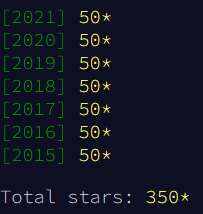
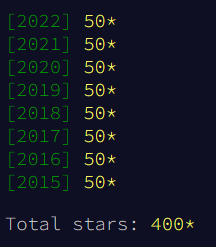
Refactoring + readmes

diff --git a/src/main/java/net/eugenpaul/adventofcode/y2022/day25/Day25.java b/src/main/java/net/eugenpaul/adventofcode/y2022/day25/Day25.java
@@ -2,119 +2,95 @@ package net.eugenpaul.adventofcode.y2022.day25;
 
 import java.util.List;
 import java.util.logging.Level;
-import java.util.stream.Collectors;
 
 import lombok.Getter;
 import net.eugenpaul.adventofcode.helper.SolutionTemplate;
 
 public class Day25 extends SolutionTemplate {
 
-	@Getter
-	private long part1;
-	@Getter
-	private long part2;
+    @Getter
+    private String part1;
 
-	public static void main(String[] args) {
-		Day25 puzzle = new Day25();
-		puzzle.doPuzzleFromFile("y2022/day25/puzzle1.txt");
-	}
+    public static void main(String[] args) {
+        Day25 puzzle = new Day25();
+        puzzle.doPuzzleFromFile("y2022/day25/puzzle1.txt");
+    }
 
-	@Override
-	public boolean doEvent(List<String> eventData) {
+    @Override
+    public boolean doEvent(List<String> eventData) {
 
-		part1 = doPuzzle1(eventData);
-		part2 = doPuzzle2(eventData, (int) part1);
+        part1 = doPuzzle1(eventData);
 
-		logger.log(Level.INFO, () -> "part1 : " + getPart1());
-		logger.log(Level.INFO, () -> "part2 : " + getPart2());
+        logger.log(Level.INFO, () -> "part1 : " + getPart1());
 
-		return true;
-	}
+        return true;
+    }
 
-	private long doPuzzle1(List<String> eventData) {
-		List<Long> digs = eventData.stream()//
-				.map(this::snafToDigimal)//
-				.collect(Collectors.toList());
+    private String doPuzzle1(List<String> eventData) {
+        long sum = eventData.stream()//
+                .mapToLong(this::snafToDigimal)//
+                .sum();
 
-		digs.forEach(System.out::println);
+        return digitToSnaf(sum);
+    }
 
-		long sum = digs.stream().mapToLong(v -> v).sum();
+    private long snafToDigimal(String data) {
+        long current = 0;
+        int pos = 5;
 
-		System.out.println("sum = " + sum + "");
+        for (int i = 0; i < data.length(); i++) {
+            switch (data.charAt(i)) {
+            case '=':
+                current = current * pos - 2;
+                break;
+            case '-':
+                current = current * pos - 1;
+                break;
+            case '0':
+                current = current * pos;
+                break;
+            case '1':
+                current = current * pos + 1;
+                break;
+            case '2':
+                current = current * pos + 2;
+                break;
 
-		digitToSnaf(1);
-		digitToSnaf(3);
-		digitToSnaf(5);
-		digitToSnaf(10);
+            default:
+                break;
+            }
+        }
+        return current;
+    }
 
-		String sn = digitToSnaf(sum);
+    private String digitToSnaf(long data) {
+        StringBuilder response = new StringBuilder();
+        long dig = data;
+        while (dig > 0) {
+            int mod = (int) (dig % 5);
+            switch (mod) {
+            case 0:
+                response.append('0');
+                break;
+            case 1:
+                response.append('1');
+                break;
+            case 2:
+                response.append('2');
+                break;
+            case 3:
+                response.append('=');
+                break;
+            case 4:
+                response.append('-');
+                break;
+            default:
+                break;
+            }
 
-		System.out.println(sn);
-
-		return 1;
-	}
-
-	private long doPuzzle2(List<String> eventData, int steps1) {
-		return 1;
-	}
-
-	private long snafToDigimal(String data) {
-		long current = 0;
-		int pos = 5;
-
-		for (int i = 0; i < data.length(); i++) {
-			switch (data.charAt(i)) {
-			case '=':
-				current = current * pos - 2;
-				break;
-			case '-':
-				current = current * pos - 1;
-				break;
-			case '0':
-				current = current * pos;
-				break;
-			case '1':
-				current = current * pos + 1;
-				break;
-			case '2':
-				current = current * pos + 2;
-				break;
-
-			default:
-				break;
-			}
-		}
-		return current;
-	}
-
-	private String digitToSnaf(long data) {
-		String response = "";
-		long dig = data;
-		while (dig > 0) {
-			int mod = (int) (dig % 5);
-			switch (mod) {
-			case 0:
-				response = '0' + response;
-				break;
-			case 1:
-				response = '1' + response;
-				break;
-			case 2:
-				response = '2' + response;
-				break;
-			case 3:
-				response = '=' + response;
-				break;
-			case 4:
-				response = '-' + response;
-				break;
-			default:
-				break;
-			}
-
-			dig = (dig + 2) / 5;
-		}
-		return response;
-	}
+            dig = (dig + 2) / 5;
+        }
+        return response.reverse().toString();
+    }
 
 }

diff --git a/src/test/java/net/eugenpaul/adventofcode/y2022/day25/Day25Test.java b/src/test/java/net/eugenpaul/adventofcode/y2022/day25/Day25Test.java
@@ -1,0 +1,35 @@
+package net.eugenpaul.adventofcode.y2022.day25;
+
+import static org.junit.jupiter.api.Assertions.assertEquals;
+import static org.junit.jupiter.api.Assertions.assertTrue;
+
+import java.util.List;
+
+import org.junit.jupiter.api.Test;
+
+import net.eugenpaul.adventofcode.helper.FileReaderHelper;
+
+class Day25Test {
+
+    @Test
+    void testTest2022Day25() {
+        testPuzzle("y2022/day25/test_puzzle1.txt", "2=-1=0");
+    }
+
+    private void testPuzzle(String inputFile, String part1) {
+        Day25 event = new Day25();
+
+        assertTrue(event.doPuzzleFromFile(inputFile));
+        assertEquals(part1, event.getPart1());
+    }
+
+    @Test
+    void testSolution2022Day25() {
+        Day25 event = new Day25();
+
+        List<String> eventData = FileReaderHelper.readListStringFromFile("y2022/day25/puzzle1.txt");
+        assertTrue(event.doPuzzleFromData(eventData));
+        assertEquals("2-121-=10=200==2==21", event.getPart1());
+    }
+
+}

diff --git a/src/main/java/net/eugenpaul/adventofcode/y2022/README.md b/src/main/java/net/eugenpaul/adventofcode/y2022/README.md
@@ -1,6 +1,6 @@
 # Solutions
 
-## Progress: Year 2022 [46/50]
+## Progress: Year 2022 [50/50]
 
 | Day  | Status | Link |
 | --- | --- | --- |
@@ -28,4 +28,6 @@
 | 22 | ⭐⭐ | [Day 22: Monkey Map](day22) |
 | 23 | ⭐⭐ | [Day 23: Unstable Diffusion](day23) |
 | 24 | ⭐⭐ | [Day 24: Blizzard Basin](day24) |
-| 25 |  | 
+| 25 | ⭐⭐ | [Day 25: Full of Hot Air](day25) |
+
+![Solutions 2022](../../../../../../../doc/img/2022.png "2022 is done")

diff --git a/README.md b/README.md
@@ -5,7 +5,7 @@ One folder for each year. One folder for each event. Resource folder contains my
 
 ## Progress:
 
-[Solutions 2022 - 48/50⭐](src/main/java/net/eugenpaul/adventofcode/y2022)
+[Solutions 2022 - **50/50**⭐](src/main/java/net/eugenpaul/adventofcode/y2022)
 
 [Solutions 2021 - **50/50**⭐](src/main/java/net/eugenpaul/adventofcode/y2021)
 

diff --git a/src/main/java/net/eugenpaul/adventofcode/y2022/day25/README.md b/src/main/java/net/eugenpaul/adventofcode/y2022/day25/README.md
@@ -1,0 +1,1 @@
+[Advent of Code Year 2022 Day 25](https://adventofcode.com/2022/day/25)
